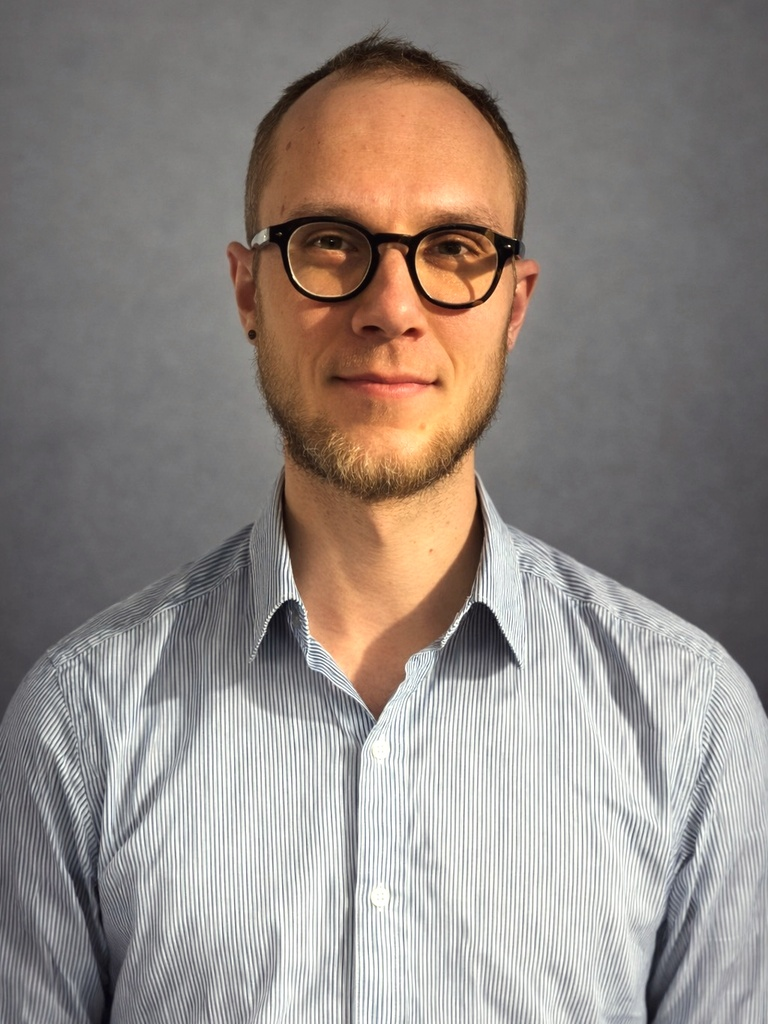
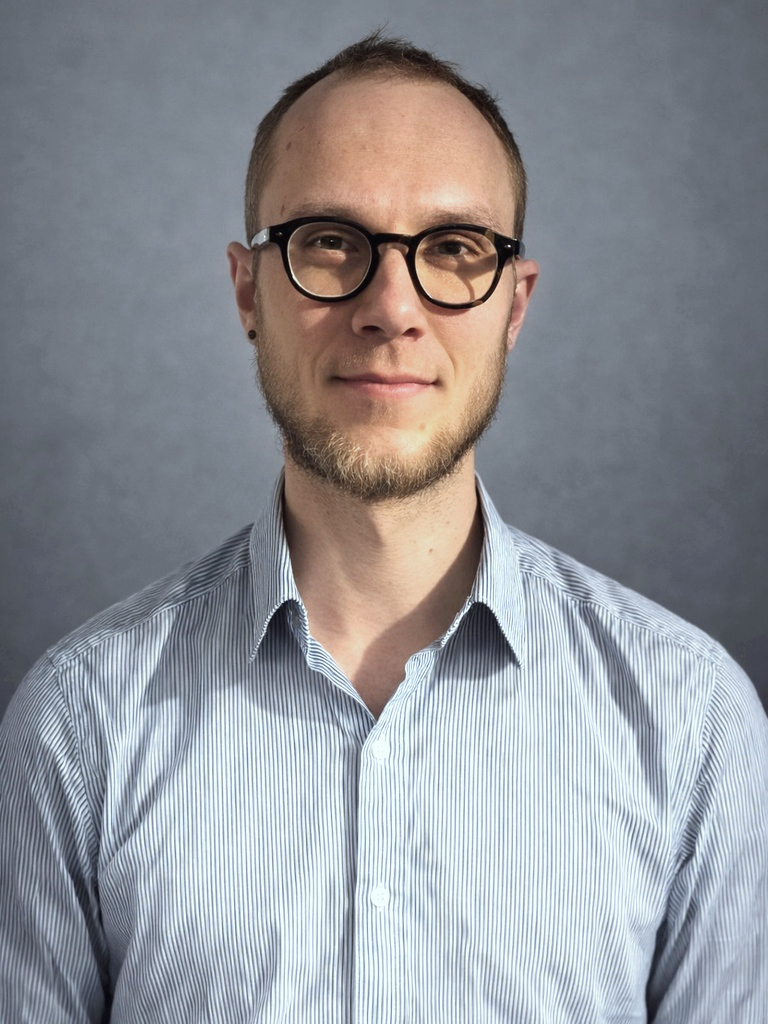
add team member, change placeholder images, update team image

diff --git a/src/data/team.ts b/src/data/team.ts
@@ -25,6 +25,7 @@ export const team: TeamMember[] = [
     name: "Laura Niklaus, BLaw",
     roles: ["BA / Ausbilderin mit eidg. Fachausweis"],
     email: "laura.niklaus@socius-beistandschaften.ch",
+    phone: "+41 (0)77 293 47 91",
     image: lauraNiklaus,
   },
   {
@@ -33,6 +34,12 @@ export const team: TeamMember[] = [
     email: "timon.sutter@socius-beistandschaften.ch",
     phone: "+41 (0)77 292 41 46",
     image: timonSutter,
+  },
+    {
+    name: "Jannik Beugger, MLaw",
+    roles: ["MSc Soziale Arbeit"],
+    email: "jannik.beugger@socius-beistandschaften.ch",
+    image: jannikBeugger,
   },
   {
     name: "Sascha Mangold",
